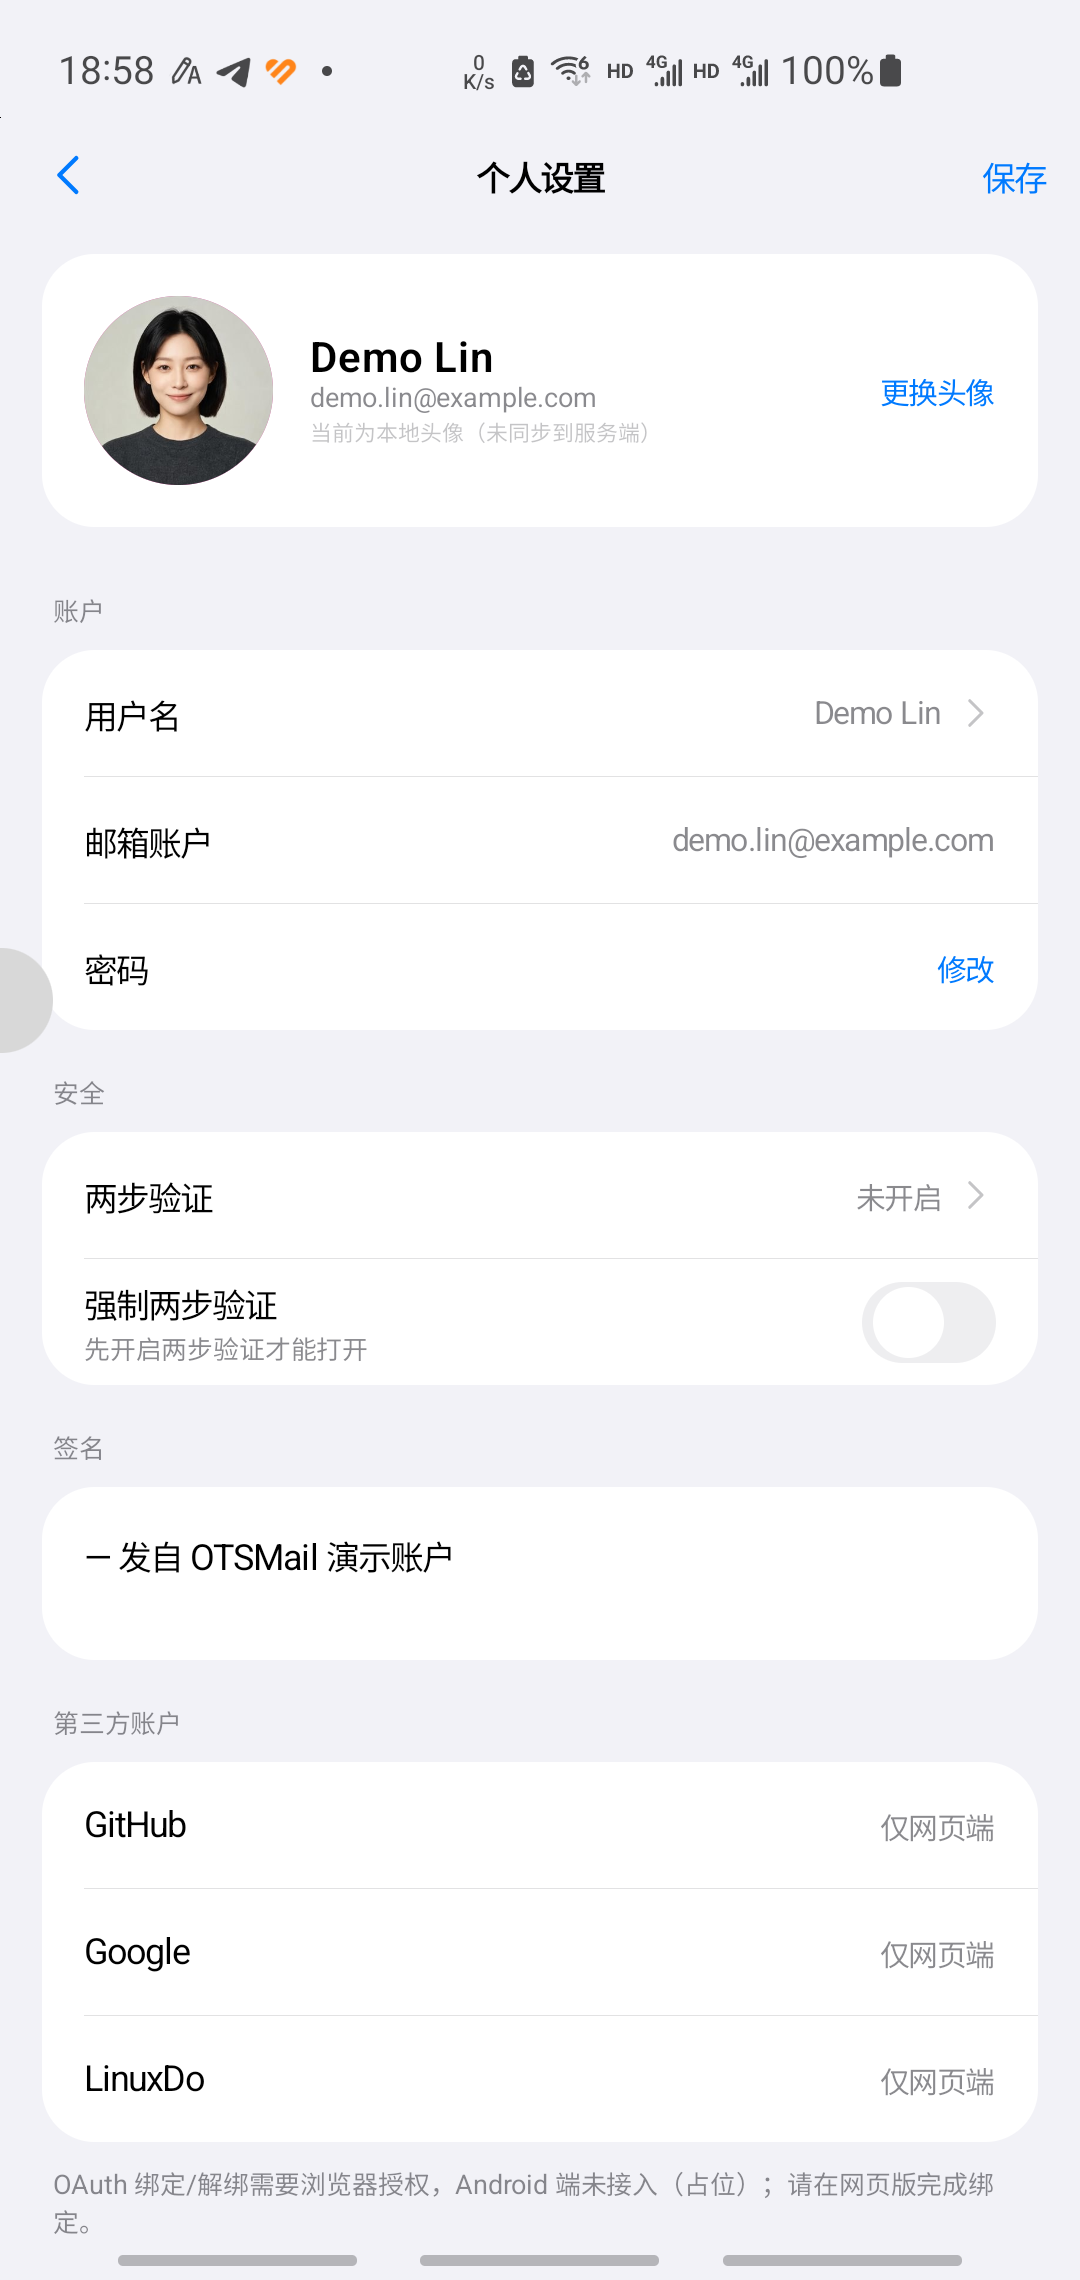
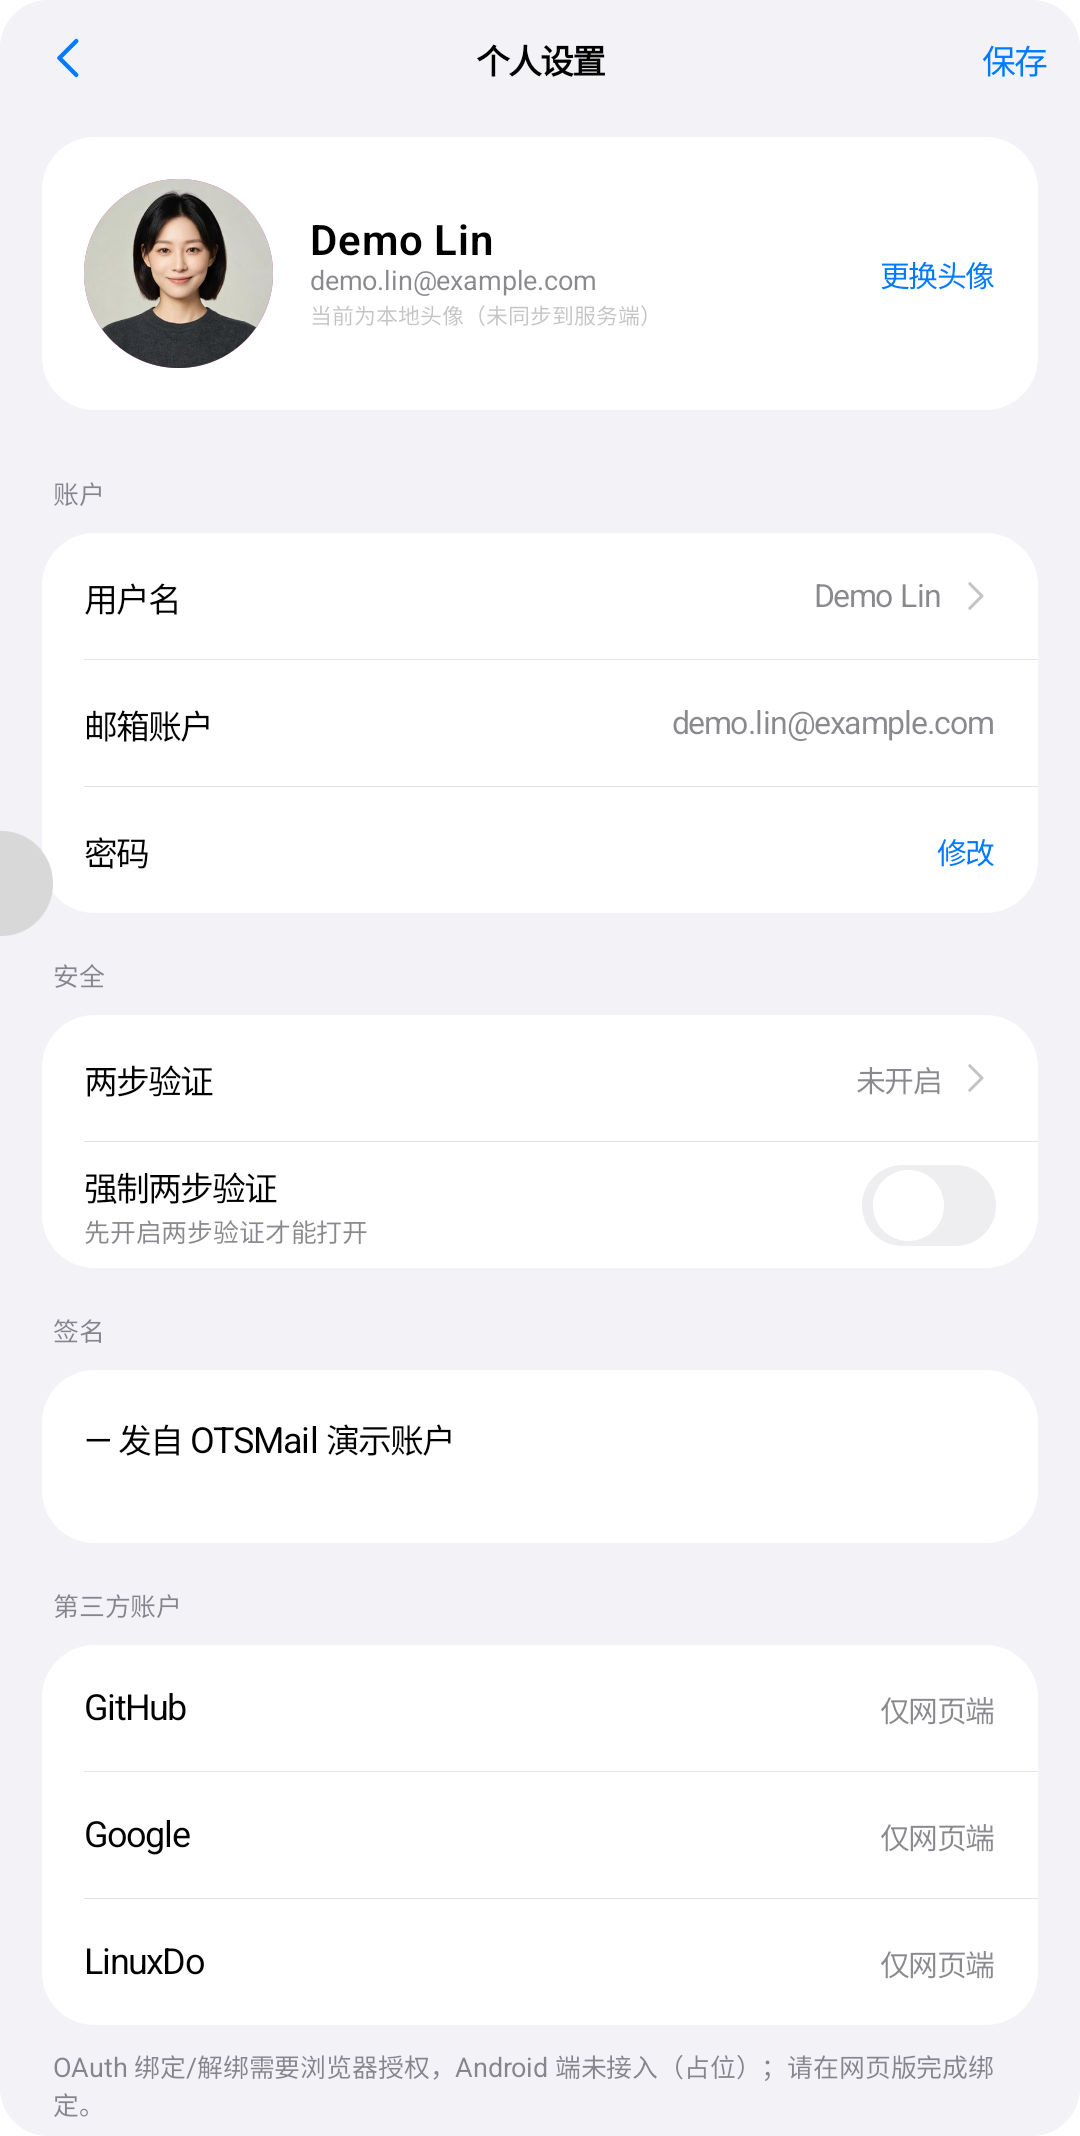
docs: 展示图裁去系统栏并加圆角

diff --git a/tools/round_screenshots.py b/tools/round_screenshots.py
@@ -1,0 +1,56 @@
+"""把真机截图裁掉系统状态栏/导航栏并加透明圆角，输出到 docs/screenshots/。
+
+固定参数（与 README 的截图一致）：
+- 原图 1080×2280（Samsung Galaxy S10e，状态栏 117px，手势导航胶囊在 y≈2254–2266）
+- 上边界 y=117：状态栏下沿，App 顶栏从这里开始
+- 下边界 y=2253：手势导航胶囊（y=2255–2265）之上，App 底部工具条/FAB 完整保留
+- 圆角半径 48px（短边 1080 的 4.4%），4× 超采样遮罩，导出带 alpha 的 PNG
+
+用法：python tools/round_screenshots.py [目录]
+"""
+import glob
+import os
+import sys
+
+from PIL import Image, ImageDraw
+
+TOP = 117
+BOTTOM = 2253
+RADIUS = 48
+SUPERSAMPLE = 4
+
+
+def process(path: str) -> None:
+    im = Image.open(path).convert("RGB")
+    w, h = im.size
+    if (w, h) != (1080, 2280):
+        raise SystemExit(f"{path}: 预期 1080×2280，实际 {w}×{h}")
+
+    cropped = im.crop((0, TOP, w, BOTTOM))
+    cw, ch = cropped.size
+
+    # 4× 超采样画圆角矩形再缩回，边缘比直接画 1× 平滑
+    mask = Image.new("L", (cw * SUPERSAMPLE, ch * SUPERSAMPLE), 0)
+    ImageDraw.Draw(mask).rounded_rectangle(
+        (0, 0, cw * SUPERSAMPLE - 1, ch * SUPERSAMPLE - 1),
+        radius=RADIUS * SUPERSAMPLE,
+        fill=255,
+    )
+    mask = mask.resize((cw, ch), Image.LANCZOS)
+
+    out = cropped.convert("RGBA")
+    out.putalpha(mask)
+    out.save(path, "PNG", optimize=True)
+    print(f"{os.path.basename(path)}: {cw}×{ch} {os.path.getsize(path) // 1024}KB")
+
+
+def main() -> None:
+    folder = sys.argv[1] if len(sys.argv) > 1 else os.path.join(
+        os.path.dirname(os.path.dirname(os.path.abspath(__file__))), "docs", "screenshots"
+    )
+    for path in sorted(glob.glob(os.path.join(folder, "*.png"))):
+        process(path)
+
+
+if __name__ == "__main__":
+    main()

diff --git a/README.md b/README.md
@@ -17,7 +17,7 @@ OTS Mail 的 Android 客户端。Kotlin + Jetpack Compose，Material 3，单 Act
 
 ## 界面预览
 
-以下截图来自 `-Pdemo=true` 的演示构建（包名带 `.demo` 后缀），**邮件、账户、头像全部是本地虚构数据**，与任何真实邮箱无关；邮件头像为产品本身的「取色圆底 + 首字母」样式，账户头像是一张 AI 合成的虚拟人像（非真实人物、仅演示构建打包）。截图在真机（Samsung Galaxy S10e，1080×2164）以系统字体 100% 拍摄。
+以下截图来自 `-Pdemo=true` 的演示构建（包名带 `.demo` 后缀），**邮件、账户、头像全部是本地虚构数据**，与任何真实邮箱无关；邮件头像为产品本身的「取色圆底 + 首字母」样式，账户头像是一张 AI 合成的虚拟人像（非真实人物、仅演示构建打包）。截图在真机（Samsung Galaxy S10e，1080×2280）以系统字体 100% 拍摄，裁去系统状态栏与手势导航条后为 1080×2136，四角圆角透明。
 
 | 收件箱 | 侧边栏 |
 |---|---|
